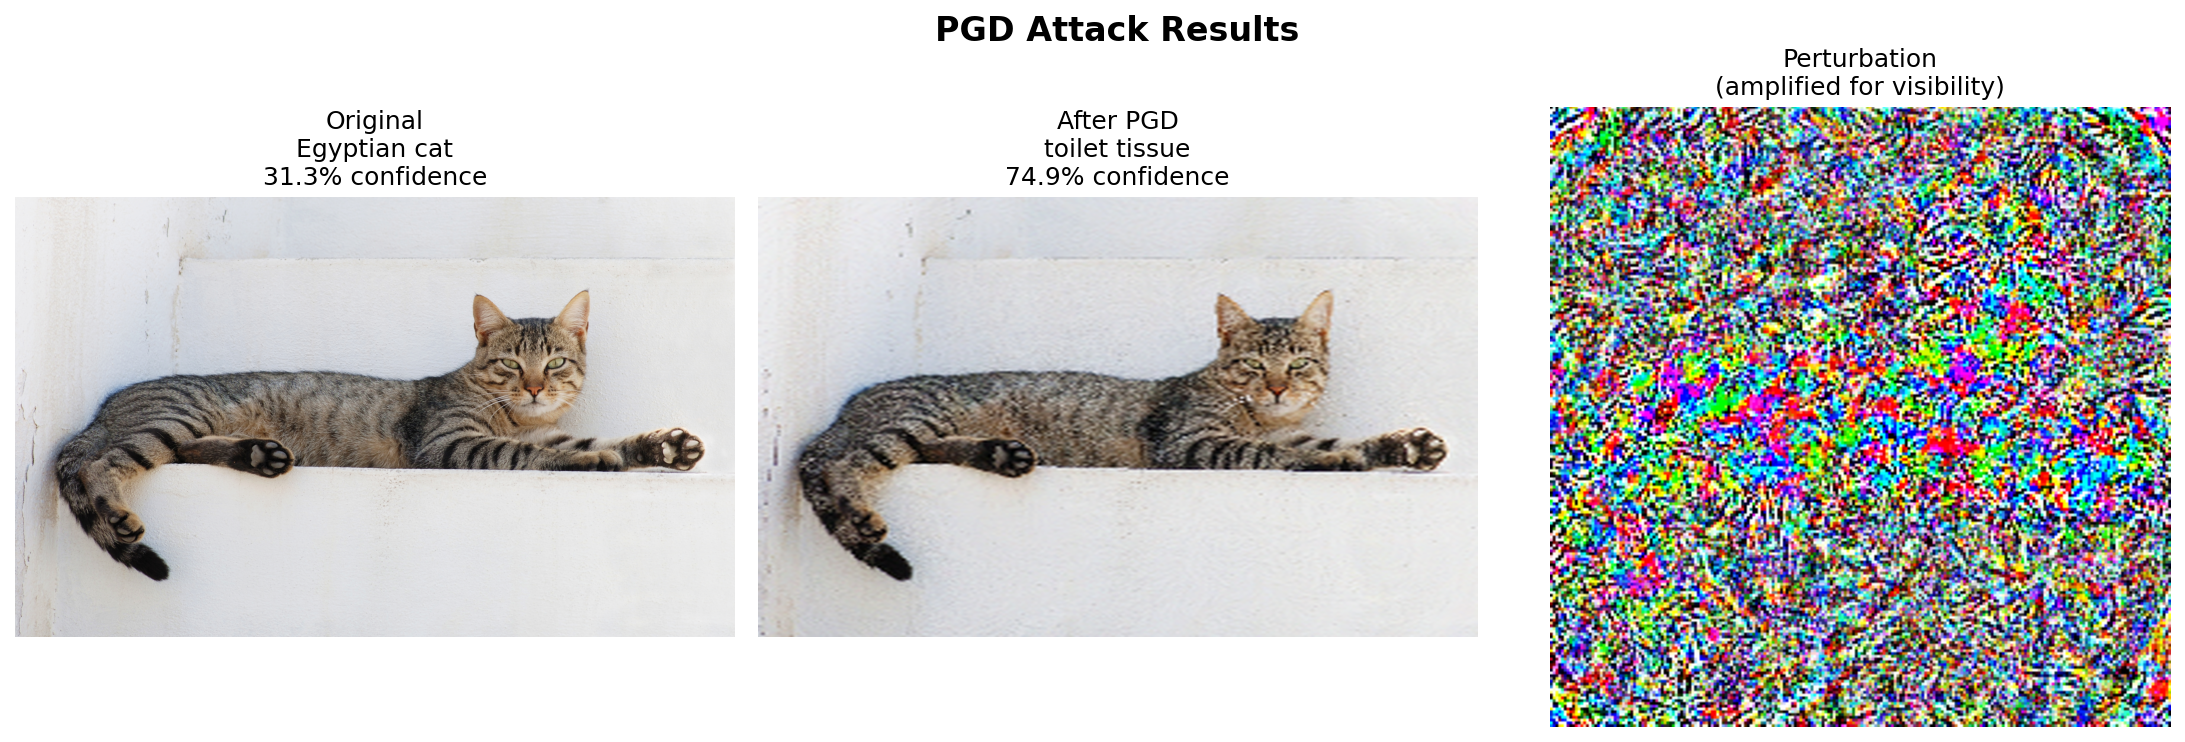
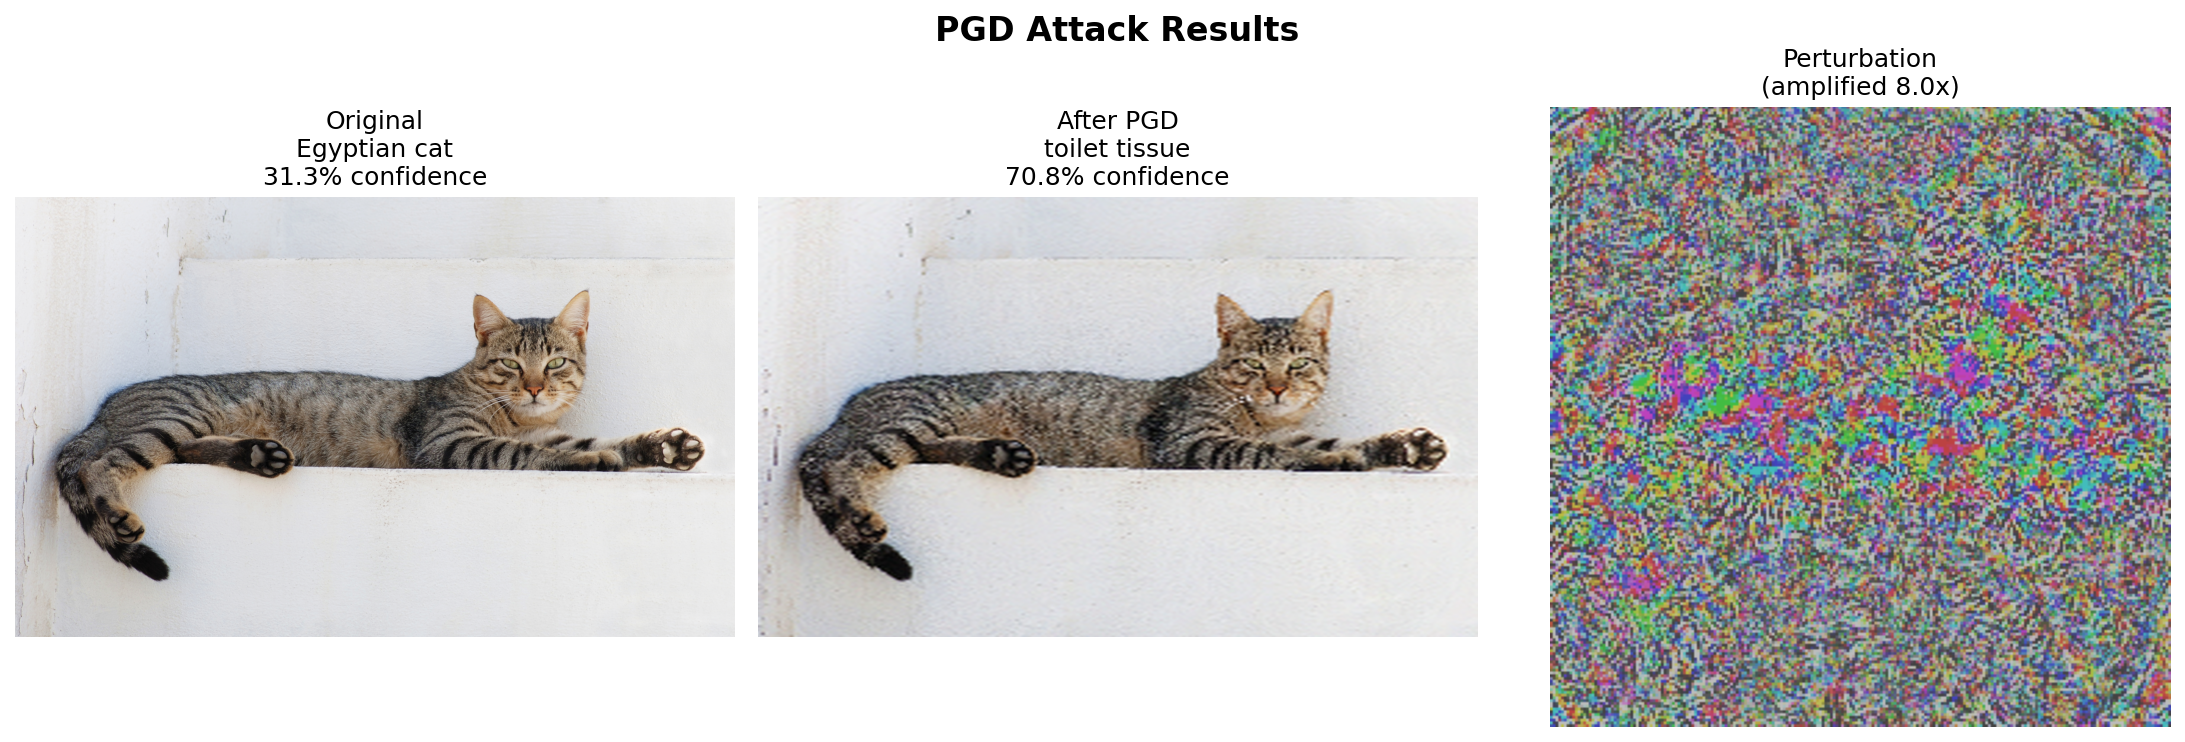
Made it possible to change levels of perturbation in the command line

Changed region(s): [[0.6847, 0.093, 0.9959, 0.9919], [0.4668, 0.217, 0.4979, 0.248]]

diff --git a/run_resnet_adversarial_attacks.py b/run_resnet_adversarial_attacks.py
@@ -461,7 +461,7 @@ class AdversarialSticker_ResNet(ResNetAdversarialAttacker):
 
 
 def visualize_results(original_img, adversarial_img, original_preds, adv_preds, 
-                     attack_name, output_name, perturbation=None):
+                     attack_name, output_name, perturbation=None, amplify_factor=1.0):
     """Visualize attack results"""
     fig, axes = plt.subplots(1, 3 if perturbation is not None else 2, 
                             figsize=(15 if perturbation is not None else 10, 5))
@@ -483,11 +483,26 @@ def visualize_results(original_img, adversarial_img, original_preds, adv_preds,
     # Perturbation
     if perturbation is not None:
         pert_np = perturbation.squeeze().cpu().detach().numpy()
-        # Visualize perturbation (amplified for visibility)
         pert_vis = np.transpose(pert_np, (1, 2, 0))
-        pert_vis = (pert_vis - pert_vis.min()) / (pert_vis.max() - pert_vis.min() + 1e-8)
+        
+        if amplify_factor == 1.0:
+            # No amplification - show raw perturbation
+            # Shift from normalized space to [0, 1] for display
+            pert_vis = np.clip((pert_vis * 0.5) + 0.5, 0, 1)
+            title_suffix = "(raw, no amplification)"
+        else:
+            # Apply amplification factor
+            if amplify_factor < 0:
+                # Auto-scale to full range
+                pert_vis = (pert_vis - pert_vis.min()) / (pert_vis.max() - pert_vis.min() + 1e-8)
+                title_suffix = "(auto-scaled)"
+            else:
+                # Manual amplification
+                pert_vis = np.clip((pert_vis * amplify_factor) + 0.5, 0, 1)
+                title_suffix = f"(amplified {amplify_factor}x)"
+        
         axes[2].imshow(pert_vis)
-        axes[2].set_title("Perturbation\n(amplified for visibility)", fontsize=12)
+        axes[2].set_title(f"Perturbation\n{title_suffix}", fontsize=12)
         axes[2].axis('off')
     
     plt.suptitle(f"{attack_name} Attack Results", fontsize=16, fontweight='bold')
@@ -517,6 +532,9 @@ def main():
     parser.add_argument('--patch-location', type=str, default='center',
                        choices=['center', 'top-left', 'top-right', 'bottom-left', 'bottom-right'],
                        help='Sticker location')
+    parser.add_argument('--amplify-perturbation', type=float, default=1.0,
+                       help='Amplification factor for perturbation visualization '
+                            '(1.0=no amplification, -1=auto-scale, >1=amplify by factor)')
     
     args = parser.parse_args()
     
@@ -629,7 +647,8 @@ def main():
                            f"{image_name}_{args.attack}_comparison.png")
     visualize_results(original_image, adversarial_image, 
                      original_preds, adv_preds, 
-                     args.attack.upper(), viz_path, perturbation)
+                     args.attack.upper(), viz_path, perturbation,
+                     amplify_factor=args.amplify_perturbation)
     
     # Summary
     print(f"\n{'=' * 60}")
